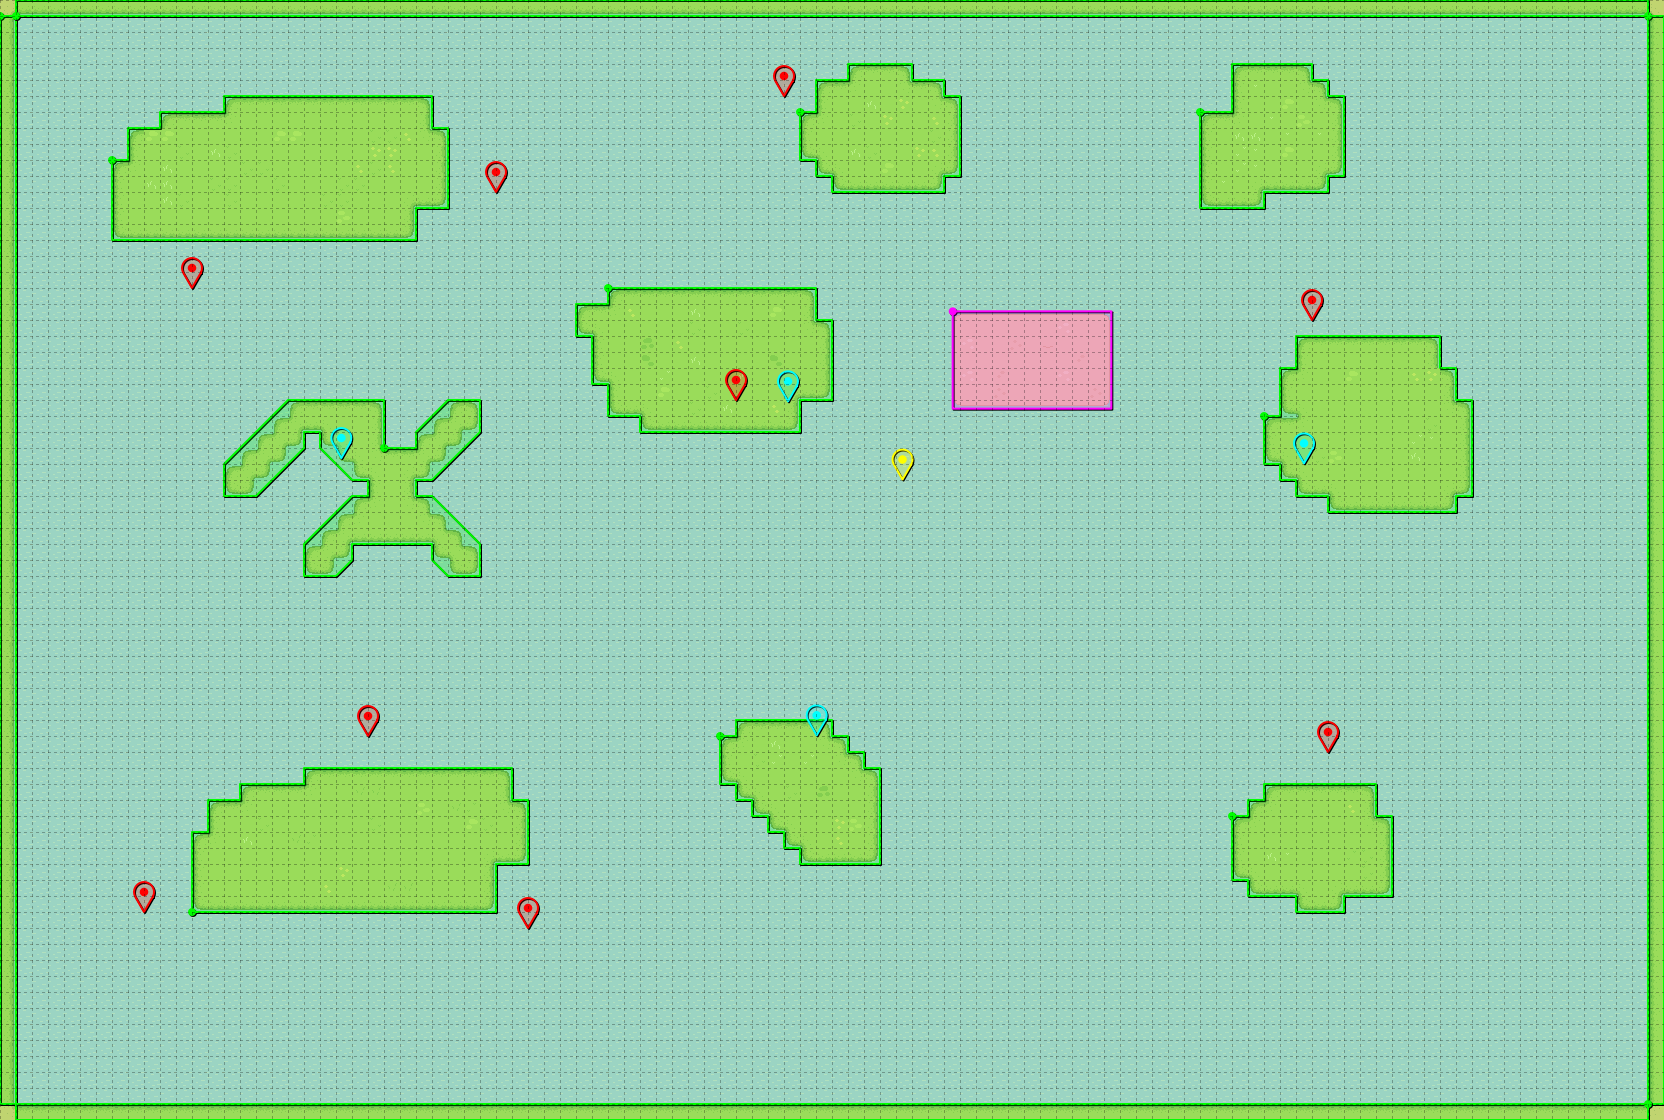
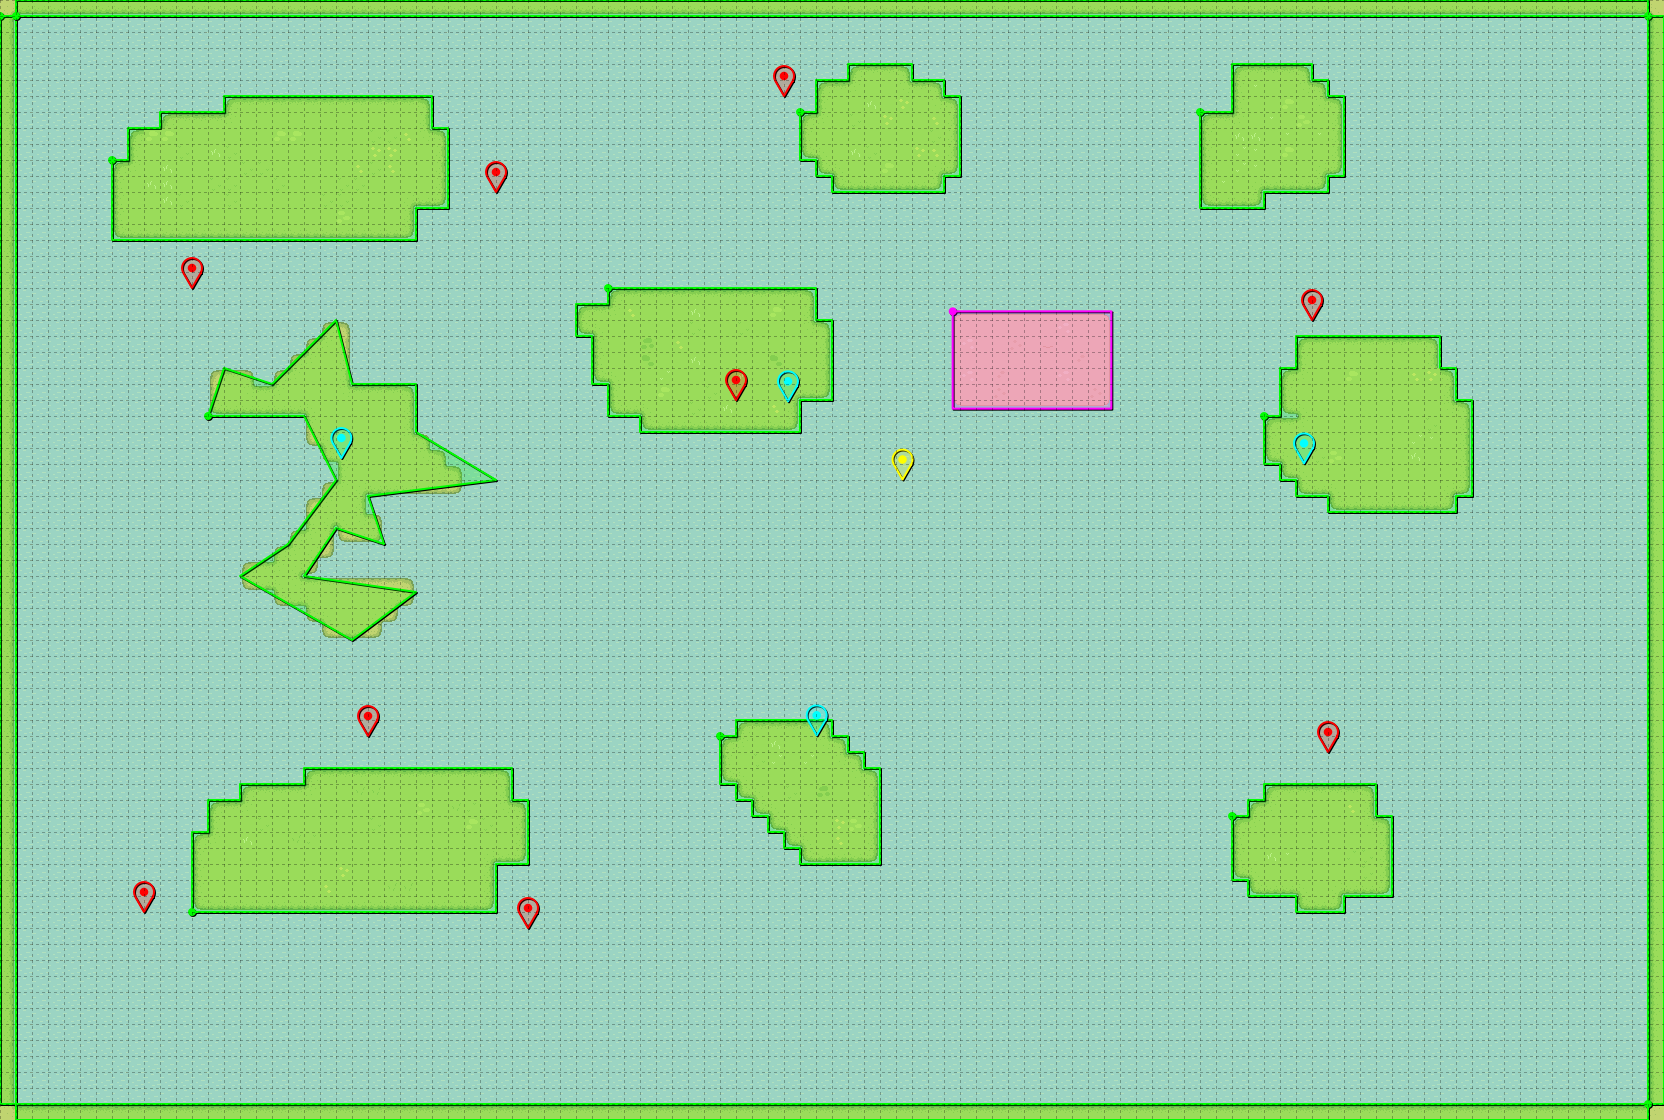
collision fixes

Changed region(s): [[0.125, 0.2812, 0.3125, 0.5938]]

diff --git a/src/physics_system.cpp b/src/physics_system.cpp
@@ -28,7 +28,7 @@ bool lineLine(int x1, int y1, int x2, int y2, int x3, int y3, int x4, int y4) {
     float uB = ((x2 - x1) * (y1 - y3) - (y2 - y1) * (x1 - x3)) / denom;
 
     // if uA and uB are between 0-1, lines are colliding
-    if (uA >= 0 && uA <= 1 && uB >= 0 && uB <= 1) {
+    if (uA > 0 && uA < 1 && uB > 0 && uB < 1) {
         return true;
     }
     return false;
